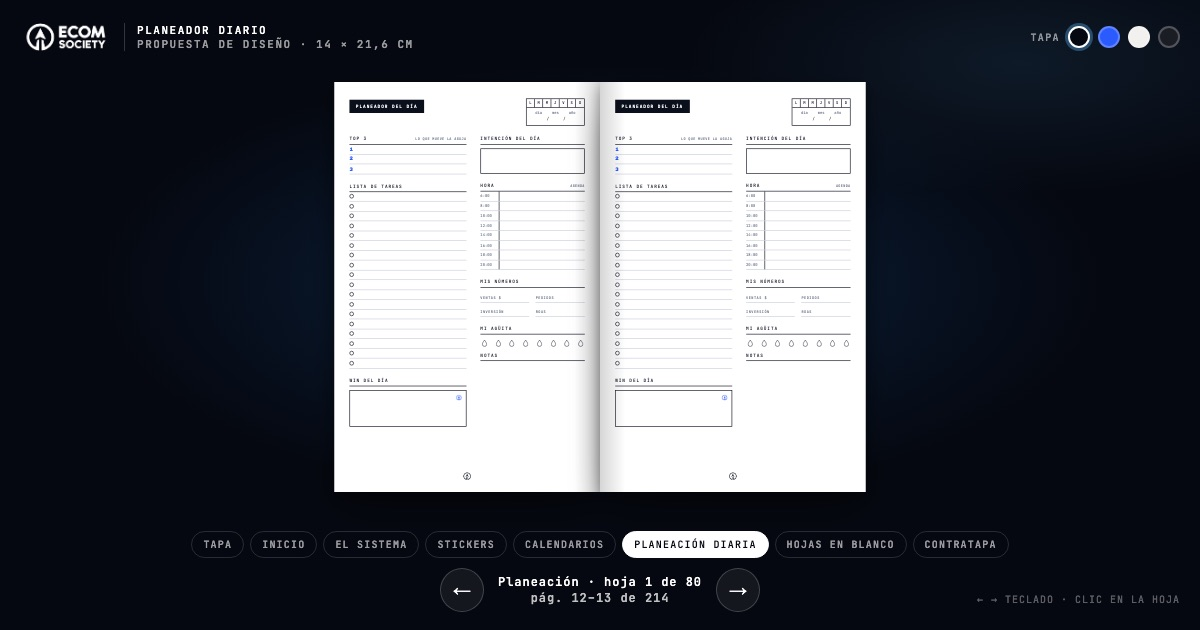
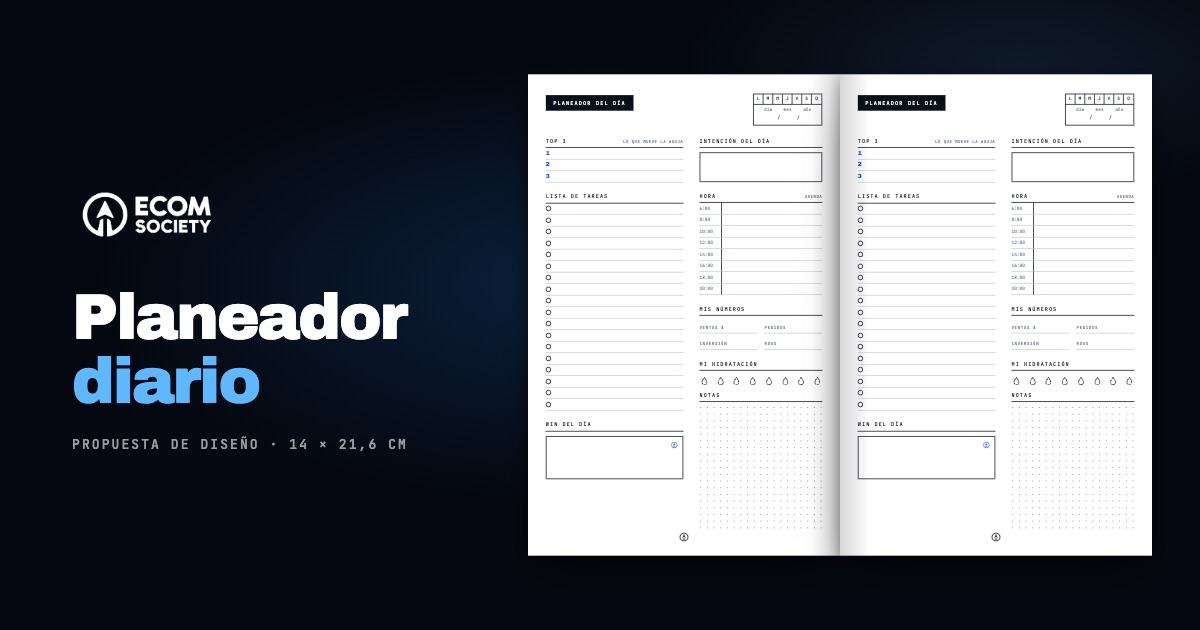
Celular impecable: lupa para ampliar, barra de páginas, horizontal, vista previa para compartir

diff --git a/index.html b/index.html
@@ -6,8 +6,21 @@
 <title>Planeador Diario · Ecom Society</title>
 <meta name="description" content="Propuesta de diseño del Planeador Diario de Ecom Society — visor hoja a hoja.">
 <meta property="og:title" content="Planeador Diario · Ecom Society">
-<meta property="og:description" content="Propuesta de diseño — pasa hoja a hoja.">
+<meta property="og:description" content="Propuesta de diseño del planeador diario de Ecom Society. Ábrelo y pasa hoja a hoja.">
 <meta property="og:image" content="https://juanfelareal.github.io/ecomsociety-planeador/og.jpg">
+<meta property="og:type" content="website">
+<meta property="og:url" content="https://juanfelareal.github.io/ecomsociety-planeador/">
+<meta property="og:image:width" content="1200">
+<meta property="og:image:height" content="630">
+<meta property="og:locale" content="es_CO">
+<meta name="twitter:card" content="summary_large_image">
+<meta name="twitter:title" content="Planeador Diario · Ecom Society">
+<meta name="twitter:description" content="Propuesta de diseño — pasa hoja a hoja.">
+<meta name="twitter:image" content="https://juanfelareal.github.io/ecomsociety-planeador/og.jpg">
+<meta name="theme-color" content="#050810">
+<meta name="apple-mobile-web-app-capable" content="yes">
+<meta name="apple-mobile-web-app-status-bar-style" content="black-translucent">
+<link rel="apple-touch-icon" href="isotipo.png">
 <meta name="robots" content="noindex">
 <link rel="icon" href="isotipo.png">
 <link rel="preconnect" href="https://fonts.googleapis.com">
@@ -21,6 +34,9 @@
 }
 *{box-sizing:border-box;margin:0;padding:0}
 html,body{height:100%}
+html{-webkit-text-size-adjust:100%;text-size-adjust:100%}
+button,.book{touch-action:manipulation;-webkit-tap-highlight-color:transparent}
+body{overscroll-behavior:none;-webkit-user-select:none;user-select:none}
 body{background:var(--bg);color:#fff;font-family:Inter,system-ui,sans-serif;overflow:hidden;
   background-image:radial-gradient(ellipse 60% 50% at 50% 45%,rgba(31,123,224,.22),transparent 70%),radial-gradient(ellipse 40% 30% at 85% 10%,rgba(95,184,255,.10),transparent 70%);}
 
@@ -32,11 +48,10 @@ body{background:var(--bg);color:#fff;font-family:Inter,system-ui,sans-serif;over
 .brand .t b{display:block;color:#fff;font-weight:500}
 .swatches{display:flex;align-items:center;gap:8px;font:500 10px 'JetBrains Mono',monospace;letter-spacing:.14em;text-transform:uppercase;color:rgba(255,255,255,.55)}
 .sw{width:22px;height:22px;border-radius:50%;border:2px solid rgba(255,255,255,.25);cursor:pointer;transition:transform .2s,border-color .2s}
-.sw:hover{transform:scale(1.12)}
+@media (hover:hover){.sw:hover{transform:scale(1.12)}}
 .sw.on{border-color:#fff;box-shadow:0 0 0 3px rgba(95,184,255,.35)}
 
 .stage{position:fixed;left:0;right:0;top:76px;bottom:132px;display:flex;align-items:center;justify-content:center}
-@media (max-width:760px){.stage{top:60px;bottom:84px}}
 .bookwrap{position:relative;transform-origin:center center}
 .book{position:relative;width:840px;height:648px;perspective:2600px;transition:transform .6s cubic-bezier(.4,.1,.2,1)}
 .half{position:absolute;top:0;width:420px;height:648px}
@@ -53,17 +68,33 @@ body{background:var(--bg);color:#fff;font-family:Inter,system-ui,sans-serif;over
 .leaf .face::before{content:"";position:absolute;inset:0;z-index:6;pointer-events:none;opacity:0;background:linear-gradient(to right,rgba(0,0,0,.25),transparent 60%);transition:opacity .35s}
 .leaf.mid .face::before{opacity:1}
 
-.nav{position:fixed;bottom:0;left:0;right:0;display:flex;flex-direction:column;align-items:center;gap:10px;padding:12px 16px 18px;z-index:20}
+.nav{position:fixed;bottom:0;left:0;right:0;display:flex;flex-direction:column;align-items:center;gap:10px;padding:12px 16px calc(18px + env(safe-area-inset-bottom));z-index:20}
+.top{padding-top:calc(14px + env(safe-area-inset-top))!important}
 .navrow{display:flex;align-items:center;gap:14px}
 .btn{width:44px;height:44px;border-radius:50%;border:1px solid rgba(255,255,255,.2);background:rgba(255,255,255,.06);color:#fff;font-size:18px;cursor:pointer;display:grid;place-items:center;transition:background .2s,transform .2s}
-.btn:hover{background:var(--brand);border-color:var(--brand)}
+@media (hover:hover){.btn:hover{background:var(--brand);border-color:var(--brand)}}
+.btn:active{background:var(--brand);border-color:var(--brand)}
 .btn:disabled{opacity:.3;pointer-events:none}
 .count{font:500 12px 'JetBrains Mono',monospace;letter-spacing:.08em;color:rgba(255,255,255,.75);min-width:170px;text-align:center}
 .count b{color:#fff;font-weight:500}
 .chips{display:flex;gap:6px;flex-wrap:wrap;justify-content:center}
 .chip{font:500 10px 'JetBrains Mono',monospace;letter-spacing:.12em;text-transform:uppercase;color:rgba(255,255,255,.6);border:1px solid rgba(255,255,255,.14);border-radius:50px;padding:6px 11px;cursor:pointer;background:transparent;transition:all .2s}
-.chip:hover{color:#fff;border-color:rgba(255,255,255,.4)}
+@media (hover:hover){.chip:hover{color:#fff;border-color:rgba(255,255,255,.4)}}
 .chip.on{background:#fff;color:var(--bg);border-color:#fff}
+.btn.sm{width:36px;height:36px;font-size:14px}
+.btn svg{width:16px;height:16px}
+.scrub{display:none;width:min(320px,82vw);-webkit-appearance:none;appearance:none;height:3px;border-radius:3px;background:rgba(255,255,255,.18);outline:none}
+.scrub::-webkit-slider-thumb{-webkit-appearance:none;width:20px;height:20px;border-radius:50%;background:#fff;border:4px solid var(--brand);box-shadow:0 2px 8px rgba(0,0,0,.4)}
+.scrub::-moz-range-thumb{width:14px;height:14px;border-radius:50%;background:#fff;border:4px solid var(--brand)}
+.toast{position:fixed;left:50%;top:50%;transform:translate(-50%,-50%);background:rgba(5,8,16,.88);border:1px solid rgba(255,255,255,.15);backdrop-filter:blur(8px);-webkit-backdrop-filter:blur(8px);color:#fff;font:500 12px Inter;padding:12px 18px;border-radius:50px;z-index:40;pointer-events:none;opacity:0;transition:opacity .4s;white-space:nowrap}
+.toast.on{opacity:1}
+.zoom{position:fixed;inset:0;z-index:50;background:rgba(5,8,16,.97);display:none;overflow:auto;-webkit-overflow-scrolling:touch;user-select:auto;-webkit-user-select:auto}
+.zoom.on{display:block}
+.zoom .sizer{position:relative;margin:0 auto}
+.zoom .zin{position:absolute;top:0;left:0;width:420px;height:648px;transform-origin:0 0}
+.zoom .zin .zp{position:absolute;top:0;width:420px;height:648px}
+.zbar{position:fixed;top:calc(12px + env(safe-area-inset-top));right:12px;display:flex;gap:8px;z-index:51}
+.zbar .btn{background:rgba(5,8,16,.8);backdrop-filter:blur(6px);-webkit-backdrop-filter:blur(6px)}
 .hint{position:fixed;right:20px;bottom:24px;font:400 10px 'JetBrains Mono',monospace;letter-spacing:.1em;color:rgba(255,255,255,.35);text-transform:uppercase}
 
 /* ---------- pages (design size 420x648 = 140x216mm @3px/mm) ---------- */
@@ -176,7 +207,7 @@ body{background:var(--bg);color:#fff;font-family:Inter,system-ui,sans-serif;over
 .kpi div{height:22px;border-bottom:1px solid var(--line);display:flex;align-items:flex-end;justify-content:space-between;padding-bottom:3px;font:500 5.6px 'JetBrains Mono';letter-spacing:.14em;text-transform:uppercase;color:var(--muted)}
 .water{display:flex;justify-content:space-between;margin-top:8px;padding:0 2px}
 .water svg{width:9px;height:12px}
-.dots{height:168px;margin-top:6px;background-image:radial-gradient(circle,#9aa3b3 .7px,transparent .9px);background-size:9px 9px;background-position:-3px -3px}
+.dots{height:168px;margin-top:6px;background-image:radial-gradient(circle,#8f98a8 .9px,transparent 1.15px);background-size:9px 9px;background-position:-3px -3px}
 
 /* blank */
 .blank .mark{opacity:.25}
@@ -193,8 +224,26 @@ body{background:var(--bg);color:#fff;font-family:Inter,system-ui,sans-serif;over
   .brand .t{display:none}
   .hint{display:none}
   .chips{display:none}
-  .count{min-width:130px;font-size:11px}
+  .count{min-width:118px;font-size:10.5px;line-height:1.45}
+  .scrub{display:block}
+  .nav{gap:12px}
 }
+body.short .top{padding:6px 14px!important}
+body.short .brand .lg{width:60px;height:30px}
+body.short .brand .t,body.short .chips,body.short .hint,body.short .scrub{display:none}
+body.short .nav{padding:4px 16px calc(6px + env(safe-area-inset-bottom))}
+body.short .btn{width:36px;height:36px}
+body.short .count br{display:none}
+body.short .count b::after{content:" · "}
+/* OG render */
+body.og .top,body.og .nav,body.og .hint{display:none}
+body.og .stage{left:500px!important;right:20px!important;top:0!important;bottom:0!important}
+.oghead{display:none}
+body.og .oghead{display:block;position:fixed;left:72px;top:50%;transform:translateY(-50%);width:420px}
+.oghead .lg{width:150px;height:75px;background:#fff;-webkit-mask:url(logo.png) left center/contain no-repeat;mask:url(logo.png) left center/contain no-repeat;margin-bottom:34px}
+.oghead h1{font:400 64px/1 'Archivo Black',sans-serif;letter-spacing:-2px;color:#fff}
+.oghead h1 em{font-style:normal;color:var(--brand2)}
+.oghead p{margin-top:22px;font:500 13px 'JetBrains Mono',monospace;letter-spacing:.16em;text-transform:uppercase;color:rgba(255,255,255,.6)}
 @media (max-height:560px){.chips{display:none}}
 </style>
 </head>
@@ -230,8 +279,14 @@ body{background:var(--bg);color:#fff;font-family:Inter,system-ui,sans-serif;over
     <button class="btn" id="prev" aria-label="Anterior">←</button>
     <div class="count" id="count"></div>
     <button class="btn" id="next" aria-label="Siguiente">→</button>
+    <button class="btn sm" id="zbtn" aria-label="Ampliar hoja" title="Ampliar"><svg viewBox="0 0 24 24" fill="none" stroke="currentColor" stroke-width="2.2" stroke-linecap="round"><circle cx="10.5" cy="10.5" r="6.5"/><path d="M15.5 15.5 21 21M10.5 7.5v6M7.5 10.5h6"/></svg></button>
   </div>
+  <input type="range" class="scrub" id="scrub" min="1" value="1" aria-label="Ir a página">
 </nav>
+<div class="toast" id="toast">Desliza o toca la hoja para pasarla</div>
+<div class="zoom" id="zoom"><div class="sizer" id="zsizer"><div class="zin" id="zin"></div></div></div>
+<div class="zbar" id="zbar" style="display:none"><button class="btn sm" id="zminus" aria-label="Alejar">−</button><button class="btn sm" id="zplus" aria-label="Acercar">+</button><button class="btn sm" id="zclose" aria-label="Cerrar">✕</button></div>
+<div class="oghead"><div class="lg"></div><h1>Planeador<br><em>diario</em></h1><p>Propuesta de diseño · 14 × 21,6 cm</p></div>
 <div class="hint">← → teclado · clic en la hoja</div>
 
 <script>
@@ -362,8 +417,8 @@ sect('Contratapa'); add(backCover);
 const N=P.length; // par → la contratapa queda sola a la izquierda
 const label=(i)=>{ if(i===0)return 'Tapa'; if(i===N-1)return 'Contratapa';
   const d0=SECT.find(s=>s[0]==='Planeación diaria')[1], b0=SECT.find(s=>s[0]==='Hojas en blanco')[1];
-  if(i>=d0&&i<b0) return `Planeación · hoja ${Math.floor((i-d0)/2)+1} de ${HOJAS_DIARIAS}`;
-  if(i>=b0&&i<b0+HOJAS_BLANCO*2) return `En blanco · hoja ${Math.floor((i-b0)/2)+1} de ${HOJAS_BLANCO}`;
+  if(i>=d0&&i<b0) return `Diario ${i-d0+1}/${HOJAS_DIARIAS*2}`;
+  if(i>=b0&&i<b0+HOJAS_BLANCO*2) return `En blanco ${i-b0+1}/${HOJAS_BLANCO*2}`;
   for(let k=SECT.length-1;k>=0;k--) if(i>=SECT[k][1]) return SECT[k][0]; };
 const html=(i)=> (i>=0&&i<N)?P[i]():'';
 
@@ -372,10 +427,16 @@ const $=id=>document.getElementById(id);
 const L=$('L'),R=$('R'),leaf=$('leaf'),F=$('F'),B=$('B'),book=$('book'),wrap=$('wrap');
 let single=false, s=0, busy=false;
 const maxS=()=> single? N-1 : N/2;
+const OG = location.hash.includes('og');
+if(OG) document.body.classList.add('og');
 function fit(){
-  single = innerWidth<=760;
-  const w = single?420:840, chrome = innerWidth<=760? 144 : (innerHeight<=560?150:208)+12;
-  const sc = Math.min((innerWidth-(single?32:80))/w, (innerHeight-chrome)/648, 1.35);
+  document.body.classList.toggle('short', innerHeight<=520 && !OG);
+  single = !OG && innerWidth<=760 && innerHeight>innerWidth;
+  const st=$('stage');
+  if(!OG){ const tH=document.querySelector('.top').offsetHeight, nH=document.querySelector('.nav').offsetHeight;
+    st.style.top=tH+'px'; st.style.bottom=nH+'px'; }
+  const w = single?420:840;
+  const sc = Math.min((st.clientWidth-(single?24:56))/w, (st.clientHeight-(single?12:24))/648, 1.35);
   book.style.width=w+'px';
   wrap.style.transform=`scale(${sc})`; wrap.style.width=w+'px'; wrap.style.height='648px'; wrap.style.flex='none';
 }
@@ -393,7 +454,9 @@ function ui(){
   let a,b;
   if(single){a=s;b=null}else{a=s===0?0:2*s-1;b=(s===0||2*s>=N)?null:2*s}
   const pg = b===null?`${a+1}`:`${a+1}–${b+1}`;
-  $('count').innerHTML = `<b>${label(b??a)}</b><br>pág. ${pg} de ${N}`;
+  let lb=label(b??a); if(b!==null){ const la=label(a), m=/^(.*) (\d+)\/(\d+)$/.exec(la), m2=/^(.*) (\d+)\/(\d+)$/.exec(lb); if(m&&m2&&m[1]===m2[1]) lb=`${m[1]} ${m[2]}–${m2[2]}/${m[3]}`; }
+  $('count').innerHTML = `<b>${lb}</b><br>pág. ${pg} de ${N}`;
+  $('scrub').value = (single? s : (s===0?0:2*s-1))+1;
   const cur = single? s : (s===0?0:2*s-1);
   let on=0; SECT.forEach((x,k)=>{ if(cur>=x[1]) on=k });
   document.querySelectorAll('.chip').forEach((c,k)=>c.classList.toggle('on',k===on));
@@ -431,10 +494,27 @@ function anim(dir){
 }
 function jump(pageIdx){ s = single? pageIdx : Math.ceil(pageIdx/2); s=Math.max(0,Math.min(maxS(),s)); draw(); }
 
+$('scrub').max=N;
+$('scrub').oninput=e=>jump(+e.target.value-1);
+const Z=$('zoom'); let zl=0;
+function zoomDraw(){
+  const idx = single? [s] : (s===0?[0]:[2*s-1,2*s].filter(i=>i<N));
+  const w=420*idx.length, base=Math.min((innerWidth-16)/w, 3), z=base*[1,1.8,2.6][zl];
+  $('zin').style.width=w+'px'; $('zin').innerHTML=idx.map((i,k)=>`<div class="zp" style="left:${k*420}px">${html(i)}</div>`).join('');
+  $('zin').style.transform=`scale(${z})`;
+  $('zsizer').style.width=w*z+'px'; $('zsizer').style.height=648*z+'px';
+  $('zsizer').style.margin = (Math.max(64,(innerHeight-648*z)/2))+'px auto 40px';
+  $('zminus').disabled=zl===0; $('zplus').disabled=zl===2;
+}
+$('zbtn').onclick=()=>{ zl= single?1:0; Z.classList.add('on'); $('zbar').style.display='flex'; zoomDraw(); Z.scrollTop=0; Z.scrollLeft=0; };
+$('zclose').onclick=()=>{ Z.classList.remove('on'); $('zbar').style.display='none'; $('zin').innerHTML=''; };
+$('zplus').onclick=()=>{ if(zl<2){zl++;zoomDraw()} };
+$('zminus').onclick=()=>{ if(zl>0){zl--;zoomDraw()} };
+addEventListener('keydown',e=>{ if(e.key==='Escape') $('zclose').click(); });
 $('next').onclick=()=>anim(1); $('prev').onclick=()=>anim(-1);
-addEventListener('keydown',e=>{ if(e.key==='ArrowRight')anim(1); if(e.key==='ArrowLeft')anim(-1); });
+addEventListener('keydown',e=>{ if(Z.classList.contains('on'))return; if(e.key==='ArrowRight')anim(1); if(e.key==='ArrowLeft')anim(-1); });
 book.addEventListener('click',e=>{ const r=book.getBoundingClientRect(); (e.clientX-r.left > r.width/2)?anim(1):anim(-1); });
-let tx=null; addEventListener('touchstart',e=>tx=e.touches[0].clientX,{passive:true});
+let tx=null; addEventListener('touchstart',e=>{ tx = (Z.classList.contains('on')||e.target.closest('.nav'))? null : e.touches[0].clientX; },{passive:true});
 addEventListener('touchend',e=>{ if(tx===null)return; const dx=e.changedTouches[0].clientX-tx; if(Math.abs(dx)>40) anim(dx<0?1:-1); tx=null; });
 $('chips').innerHTML = SECT.map(([n,i])=>`<button class="chip" data-i="${i}">${n}</button>`).join('');
 document.querySelectorAll('.chip').forEach(c=>c.onclick=()=>jump(+c.dataset.i));
@@ -442,8 +522,10 @@ document.querySelectorAll('.sw').forEach(b=>b.onclick=()=>{
   document.querySelectorAll('.sw').forEach(x=>x.classList.remove('on')); b.classList.add('on');
   document.documentElement.style.setProperty('--cover',b.dataset.c); document.documentElement.style.setProperty('--cover-ink',b.dataset.i);
 });
-addEventListener('resize',()=>{ const was=single; fit(); if(was!==single){ const p = was? s : (s===0?0:2*s-1); jump(p); } });
+addEventListener('resize',()=>{ const was=single; fit(); if(Z.classList.contains('on')) zoomDraw(); if(was!==single){ const p = was? s : (s===0?0:2*s-1); jump(p); } });
 fit(); draw();
+if(document.fonts) document.fonts.ready.then(fit);
+if(single){ setTimeout(()=>$('toast').classList.add('on'),900); setTimeout(()=>$('toast').classList.remove('on'),3600); }
 const hp=/p=(\d+)/.exec(location.hash); if(hp) jump(+hp[1]-1);
 </script>
 </body>
